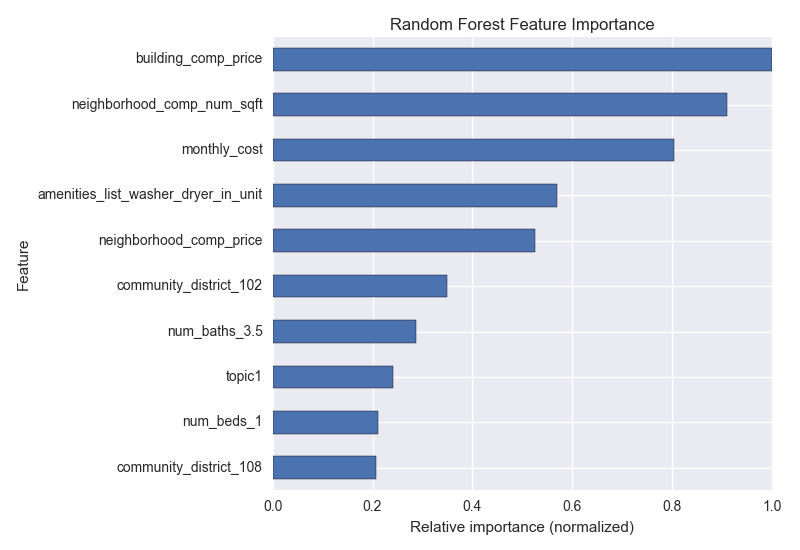
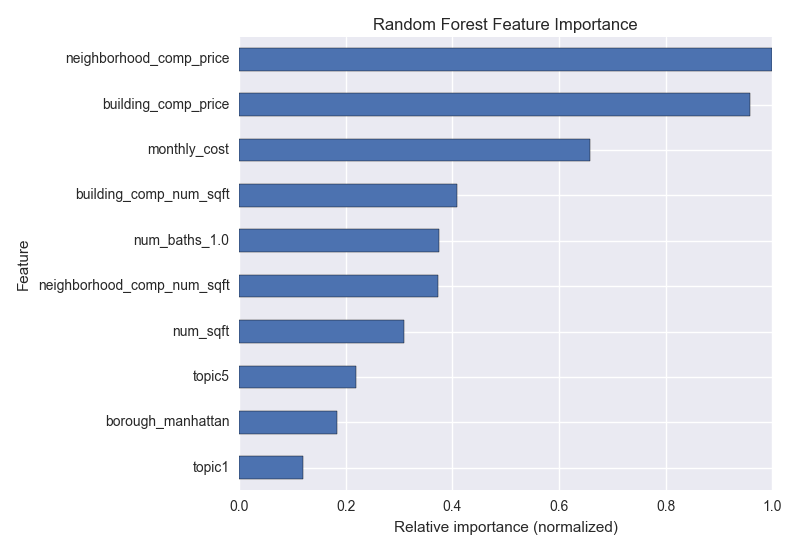
Added figs and data from first XGBoost run with RMSE loss, plus new RMSPE script

diff --git a/modeling/xgboost_model_2.py b/modeling/xgboost_model_2.py
@@ -30,12 +30,25 @@ class Logger(object):
 def percentage_error(y_true, y_pred):
     return np.abs((y_true - y_pred) / y_true) * 100.0
 
+def RMSPE_loss(preds, dtrain):
+    #See https://www.kaggle.com/inpefess/rossmann-store-sales/xgboost-in-python-with-rmspe/run/81957
+    #Note he had a mistake in grad which is corrected here.
+    #He also used list comprehesions/ternary ifs...
+    labels = dtrain.get_label()
+    grad = np.where(labels != 0, (preds - labels)/(labels**2), 0)
+    hess = np.where(labels != 0, 1/(labels**2), 0)
+    return grad, hess
+
+def evalerror(preds, dtrain):
+    labels = dtrain.get_label()
+    return 'RMSPE', np.sqrt(np.average(np.where(labels != 0, (1 - preds/labels)**2, 0)))
+
 if __name__ == '__main__':
 
     if len(sys.argv) > 1:
         if sys.argv[1] == 'test':
-            num_boost_round = 10 #For final model
-            n_estimators = 4 #For max_depth grid search
+            num_boost_round = 3 #For final model
+            n_estimators = 2 #For max_depth grid search
             max_depths = [2,3,4,5]
     else:
         num_boost_round = 1000 #For final model
@@ -104,17 +117,18 @@ if __name__ == '__main__':
                         DMatrix_train,
                         n_estimators,
                         [(DMatrix_train,'Train'),(DMatrix_eval,'Validation')],
+                        obj = RMSPE_loss,
+                        feval = evalerror,
                         verbose_eval=True,
                         early_stopping_rounds=10,
                         )
 
         #Process results and save in DF
         eval_results = sys.stdout.log
-        eval_results = [x.strip() for x in eval_results if x.find('rmse:')>0]
+        eval_results = [x.strip() for x in eval_results if x.find('RMSPE:')>0]
         eval_results = [re.findall("\d+\.\d+", x) for x in eval_results]
-        #Square to remove root from RMSE- map RMSE -> MSE
-        train_results = [float(x[0])**2 for x in eval_results]
-        val_results = [float(x[1])**2 for x in eval_results]
+        train_results = [float(x[2]) for x in eval_results] #Note MSE prints
+        val_results = [float(x[3]) for x in eval_results] #Note MSE prints
         num_rounds_boosting = range(1,len(eval_results)+1)
 
         lc_df = {'max_depth':np.repeat(depth, len(num_rounds_boosting)),
@@ -139,7 +153,7 @@ if __name__ == '__main__':
     #--------------MAKE PLOTS AND SAVE STATS---------------#
     #------------------------------------------------------#
 
-    depth_all_results.to_csv('./saved_models/XGB_depth_learning_curve.csv', index=False)
+    depth_all_results.to_csv('./saved_models/XGB_model_2_depth_learning_curve.csv', index=False)
     colors = ['b','g','r','k']
     colors = dict(zip(max_depths, colors))
 
@@ -159,7 +173,7 @@ if __name__ == '__main__':
                  linestyle='solid',
                  color = colors[depth])
     plt.title('Learning tree depth')
-    plt.ylabel('Mean Squared Error')
+    plt.ylabel('Root Mean Squared Percentage Error')
     plt.xlabel('Number of Rounds of Boosting')
 
     # Shrink current axis by 20%
@@ -168,7 +182,7 @@ if __name__ == '__main__':
     # Put a legend to the right of the current axis
     ax.legend(loc='center left', bbox_to_anchor=(1, 0.5),frameon=True)
 
-    fig.savefig('./figs/XGB_depth_learning_lc.png')
+    fig.savefig('./figs/XGB_model_2_depth_learning_lc.png')
 
 
     #------------------------------------------------------#
@@ -177,9 +191,8 @@ if __name__ == '__main__':
 
     print 'Now learning number of rounds of boosting and learning rate using optimal tree depth...'
 
-    final_params = {'objective':'reg:linear',
-                    'silent':0}
-    final_params['max_depth'] = best_depth
+    final_params = {'silent':0,
+                    'max_depth':best_depth}
 
     #Start logging to save verbose_eval...
     stdout = sys.stdout
@@ -196,17 +209,18 @@ if __name__ == '__main__':
                         DMatrix_train,
                         num_boost_round,
                         [(DMatrix_train,'Train'),(DMatrix_eval,'Validation')],
+                        obj = RMSPE_loss,
+                        feval = evalerror,
                         verbose_eval=True,
                         early_stopping_rounds=10,
                         )
 
         #Process results and save in DF
         eval_results = sys.stdout.log
-        eval_results = [x.strip() for x in eval_results if x.find('rmse:')>0]
+        eval_results = [x.strip() for x in eval_results if x.find('RMSPE:')>0]
         eval_results = [re.findall("\d+\.\d+", x) for x in eval_results]
-        #Square to remove root from RMSE- map RMSE -> MSE
-        train_results = [float(x[0])**2 for x in eval_results]
-        val_results = [float(x[1])**2 for x in eval_results]
+        train_results = [float(x[2]) for x in eval_results] #Note MSE prints
+        val_results = [float(x[3]) for x in eval_results] #Note MSE prints
         num_rounds_boosting = range(1,len(eval_results)+1)
 
         lc_df = {'eta':np.repeat(eta, len(num_rounds_boosting)),
@@ -233,7 +247,7 @@ if __name__ == '__main__':
     #--------------MAKE PLOTS AND SAVE STATS---------------#
     #------------------------------------------------------#
 
-    all_results.to_csv('./saved_models/XGB_learning_curve.csv', index=False)
+    all_results.to_csv('./saved_models/XGB_model_2_learning_curve.csv', index=False)
     colors = ['b','g','r','k']
     colors = dict(zip(etas, colors))
     #Make learning curve
@@ -259,9 +273,9 @@ if __name__ == '__main__':
     ax.legend(loc='center left', bbox_to_anchor=(1, 0.5),frameon=True)
 
     plt.title('Learning number of rounds and learning rate')
-    plt.ylabel('Mean Squared Error')
+    plt.ylabel('Root Mean Squared Percentage Error')
     plt.xlabel('Number of Rounds of Boosting')
-    fig.savefig('./figs/XGB_num_round_eta_lc.png')
+    fig.savefig('./figs/XGB_model_2_num_round_eta_lc.png')
 
     #------------------------------------------------------#
     #------LEARN FINAL MODEL OVER ALL TRAINING DATA--------#
@@ -283,6 +297,8 @@ if __name__ == '__main__':
                     DMatrix_train_all,
                     best_etas_num_rounds,
                     [(DMatrix_train,'Train')],
+                    obj = RMSPE_loss,
+                    feval = evalerror,
                     verbose_eval=True,
                     )
 
@@ -300,11 +316,11 @@ if __name__ == '__main__':
 
     #Now make and save fig.
     importance.plot(kind='barh', x='feature', y='fscore', xlim=(0,1), legend=False)
-    plt.title('XGBoost Feature Importance')
+    plt.title('XGBoost RMSEPE Feature Importance')
     plt.xlabel('Relative importance (normalized gain score)')
     plt.ylabel('Feature')
     plt.tight_layout()
-    plt.savefig('./figs/XGB_feature_importance.png')
+    plt.savefig('./figs/XGB_model_2_feature_importance.png')
 
     #------------------------------------------------------#
     #--------------GET TEST SET RESULTS AND SAVE-----------#
@@ -314,7 +330,7 @@ if __name__ == '__main__':
     predicted_test = bst_final.predict(DMatrix_test, ntree_limit=bst_final.best_ntree_limit)
 
     metrics = [mean_squared_error, r2_score, mean_absolute_error, median_absolute_error]
-    with file('./saved_models/XGBoost_test_scores.txt','w') as test_output:
+    with file('./saved_models/XGB_model_2_test_scores.txt','w') as test_output:
         test_output.write('Test set scores:\n')
         for metric in metrics:
             metric_score = metric(y_test, predicted_test)
@@ -350,9 +366,9 @@ if __name__ == '__main__':
     plt.ylabel('Frequency (counts)')
     plt.legend()
     plt.xlim(0,200)
-    plt.savefig('./figs/XGB_perc_error_hist.png')
+    plt.savefig('./figs/XGB_model_2_perc_error_hist.png')
 
-    pd.DataFrame(predicted_test, index=y_test.index).to_csv('./saved_models/XGBoost_test_predictions.csv', index=True)
+    pd.DataFrame(predicted_test, index=y_test.index).to_csv('./saved_models/XGB_model_2_test_predictions.csv', index=True)
 
     print 'Saving final xgb model...'
-    bst_final.save_model('./saved_models/XGBoost_final_model.model')
+    bst_final.save_model('./saved_models/XGB_model_2_final_model.model')

diff --git a/modeling/random_forest_model.py b/modeling/random_forest_model.py
@@ -16,7 +16,7 @@ def percentage_error(y_true, y_pred):
 
 if __name__ == '__main__':
 
-    if len(sys.argv) > 0:
+    if len(sys.argv) > 1:
         if sys.argv[1] == 'test':
             params = {'n_estimators':[2, 4],
                       'max_depth':[4,8],
@@ -26,15 +26,15 @@ if __name__ == '__main__':
                       'verbose':[2],
                       'max_features':['auto', 'sqrt']
                       }
-        else:
-            params = {'n_estimators':[50, 100, 200, 400],
-                      'max_depth':[4,8],
-                      'criterion':['mse'],
-                      'oob_score':[True],
-                      'n_jobs':[-1],
-                      'verbose':[2],
-                      'max_features':['auto', 'sqrt']
-                      }
+    else:
+        params = {'n_estimators':[50, 100, 200, 400],
+                  'max_depth':[4,8],
+                  'criterion':['mse'],
+                  'oob_score':[True],
+                  'n_jobs':[-1],
+                  'verbose':[2],
+                  'max_features':['auto', 'sqrt']
+                  }
 
     #------------------------------------------------------#
     #------------------READ IN DATA------------------------#
